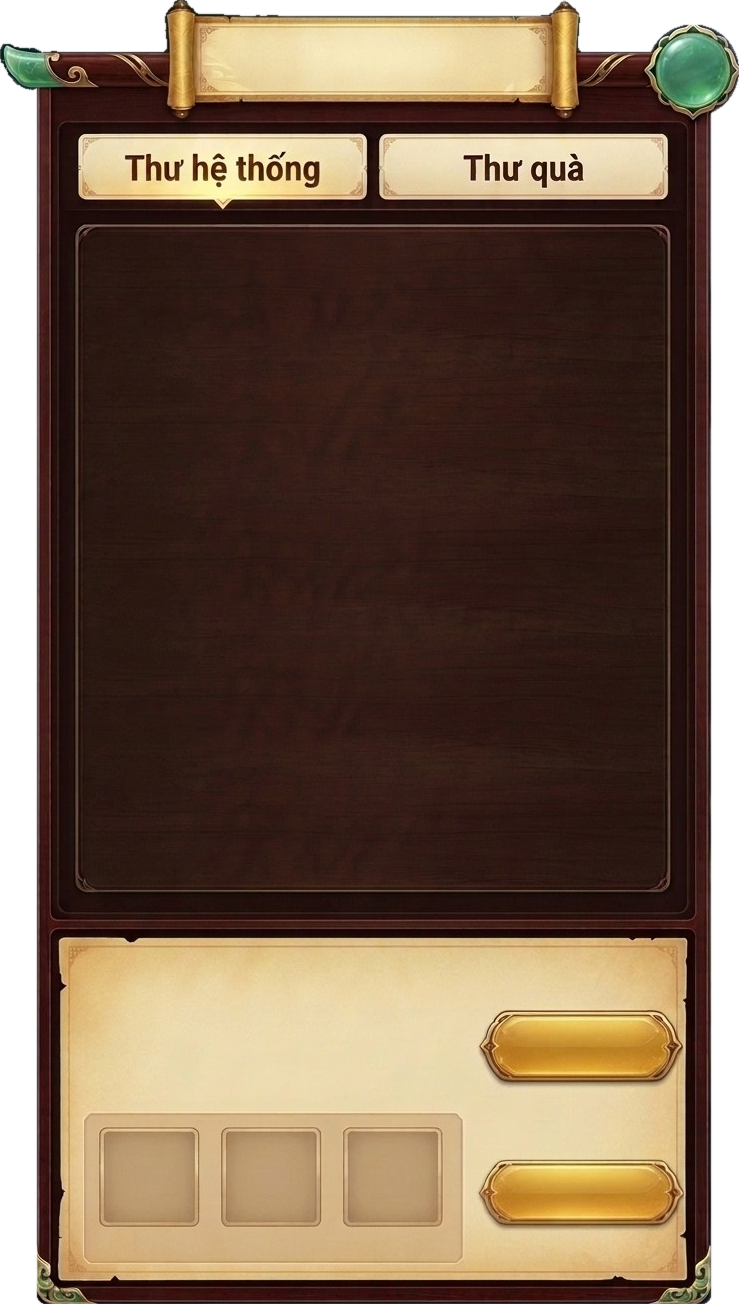
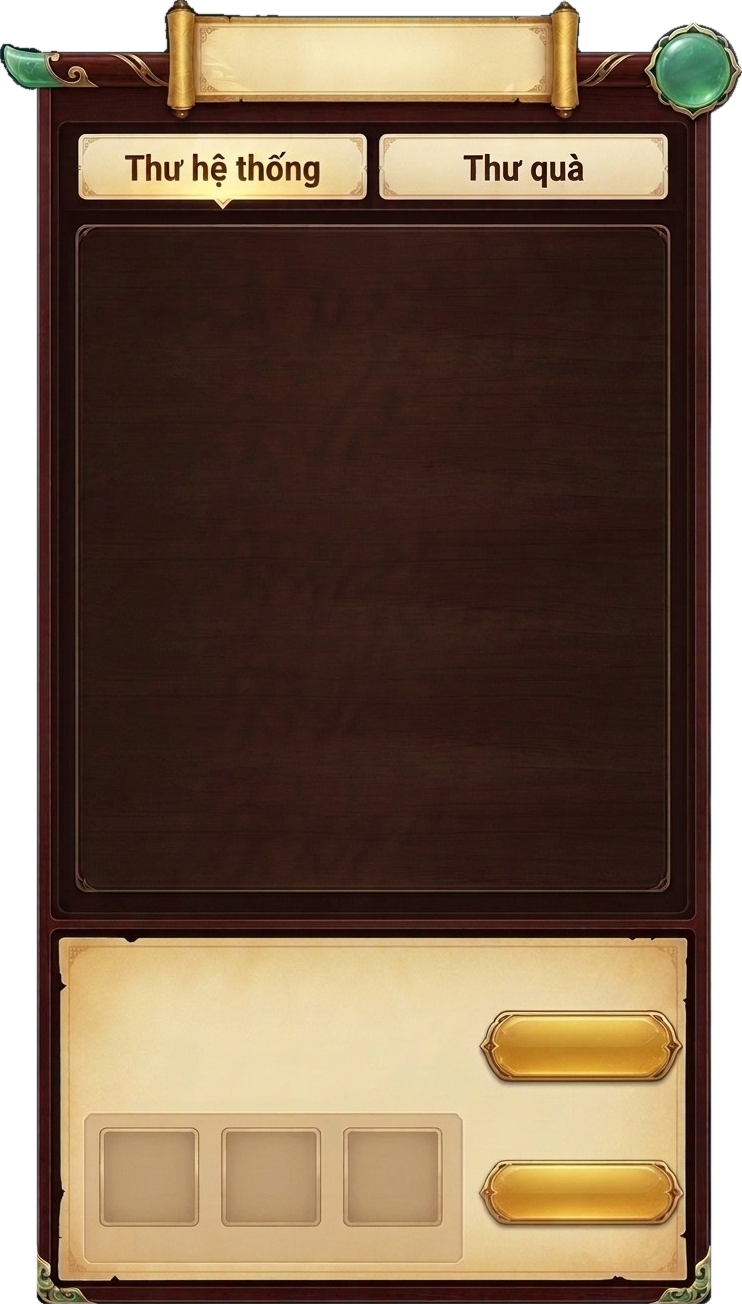
ui(mail): keep the 12h and 3h pointed tips of the jade close button

diff --git a/src/ui/mail-hall.css b/src/ui/mail-hall.css
@@ -14,7 +14,7 @@
 #hvMailRoot .hv-mail-frame{
   position:relative;flex:0 0 auto;container-type:inline-size;
   width:min(100vw,calc(100dvh * 768 / 1376));aspect-ratio:768/1376;
-  background:url('assets/ui/mail/mail-lacquer-frame.png') 37.93% 48.61%/96.224% 94.767% no-repeat;
+  background:url('assets/ui/mail/mail-lacquer-frame.png') 42.31% 48.61%/96.615% 94.767% no-repeat;
   filter:drop-shadow(0 10px 24px rgba(0,0,0,.6));
 }
 #hvMailRoot .hv-mail-top{position:absolute;left:27.6%;top:4.2%;width:45.5%;height:5%;display:grid;place-items:center;pointer-events:none}
